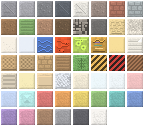
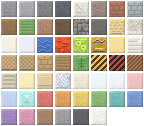
素材 砾石重做：改成显式摆石子，不再是网格噪音
用户说这块「看上去好乱」。翻了三版才找对方法，过程记下来：

1. 6 个大圆角块 —— 16px 下六块拼成一张脸；
2. 按 3px 网格摆碎块 —— 缝是直角的，连成迷宫，比第一版更乱；
3. 抖动网格 + 最近种子（圆石那套）—— 16px 上网格太密，缝退化成零散黑点，
   石子之间明暗差又不够，看着是一片灰。

结论：这个尺寸上「自动铺石子」很难自然，改成老老实实摆位置 ——
4x4 抖动中心、半径 1.5~2.3 的圆石子互相叠压，每颗做左上受光 / 右下背光，
缝里露一档浅暗底（0.74，太黑就成格子）。

Changed region(s): [[0.5, 0.1429, 0.6389, 0.2857]]

diff --git a/tools/build_paper_atlas.py b/tools/build_paper_atlas.py
@@ -19,6 +19,7 @@ SUBSTRATA —— 纸艺折纸风格图集（16x16）。
 
 import math
 import os
+import random
 from PIL import Image
 
 TILE = 16
@@ -344,29 +345,43 @@ def m_sand_flow(img, c):
 
 
 def m_gravel(img, c):
-    """砾石：一堆 2~3 像素的小碎块 + 暗缝。
+    """砾石：直接画十来颗圆石子，互相稍微叠着，缝里露暗底。
 
-    上一版是 6 块 4~6 像素的大块，16px 下拼起来像一张脸。
-    颗粒要小、要多、大小不齐，才像碎石。
+    前三版都不对，记录下来免得再走一遍：
+    · 6 个大圆角块 → 拼起来像一张脸；
+    · 3px 网格摆碎块 → 缝连成直角迷宫；
+    · 抖动网格 + 最近种子 → 缝退化成零散黑点，石子之间明暗差又不够，看着是一片灰。
+    结论：16px 上「自动生成石子」很难自然，不如老老实实摆位置、给每颗石子
+    做左上一档亮、右下一档暗，眼睛就会读成一颗颗圆的。
     """
+    import math
+    rnd = random.Random(23)
+    stones = []
+    for gy in range(4):
+        for gx in range(4):
+            cx = gx * 4 + 2 + rnd.uniform(-0.9, 0.9)
+            cy = gy * 4 + 2 + rnd.uniform(-0.9, 0.9)
+            r = rnd.uniform(1.5, 2.3)
+            tone = rnd.uniform(-1.0, 1.0)          # 每颗石子自己的明暗
+            stones.append((cx, cy, r, tone))
+
     p = img.load()
     for y in range(TILE):
         for x in range(TILE):
-            p[x, y] = sh(c, 0.58)
-    rnd = 0
-    for gy in range(0, TILE, 3):
-        for gx in range(0, TILE, 3):
-            rnd += 1
-            if hnoise(gx, gy, 71) < 0.18:
-                continue
-            w = 2 + int(hnoise(gx, gy, 73) * 2)
-            h = 2 + int(hnoise(gx, gy, 77) * 2)
-            k = 0.92 + hnoise(gx, gy, 79) * 0.34
-            for y in range(gy, min(TILE - 1, gy + h)):
-                for x in range(gx, min(TILE - 1, gx + w)):
-                    pen(p, x, y, c, k)
-            for x in range(gx, min(TILE - 1, gx + w)):
-                pen(p, x, gy, c, k * 1.10)      # 顶面只亮一点点
+            pen(p, x, y, c, 0.74)                  # 先铺暗底，缝就是它（别太黑，一黑就成格子）
+    for (cx, cy, r, tone) in stones:
+        for y in range(max(0, int(cy - r - 1)), min(TILE, int(cy + r + 2))):
+            for x in range(max(0, int(cx - r - 1)), min(TILE, int(cx + r + 2))):
+                dx, dy = x - cx, y - cy
+                d = math.hypot(dx, dy)
+                if d > r:
+                    continue
+                k = 1.06 + tone * 0.09
+                if dx + dy < -r * 0.35:            # 左上受光
+                    k += 0.12
+                elif dx + dy > r * 0.45:           # 右下背光
+                    k -= 0.10
+                pen(p, x, y, c, k)
 
 
 def m_dust(img, c):
